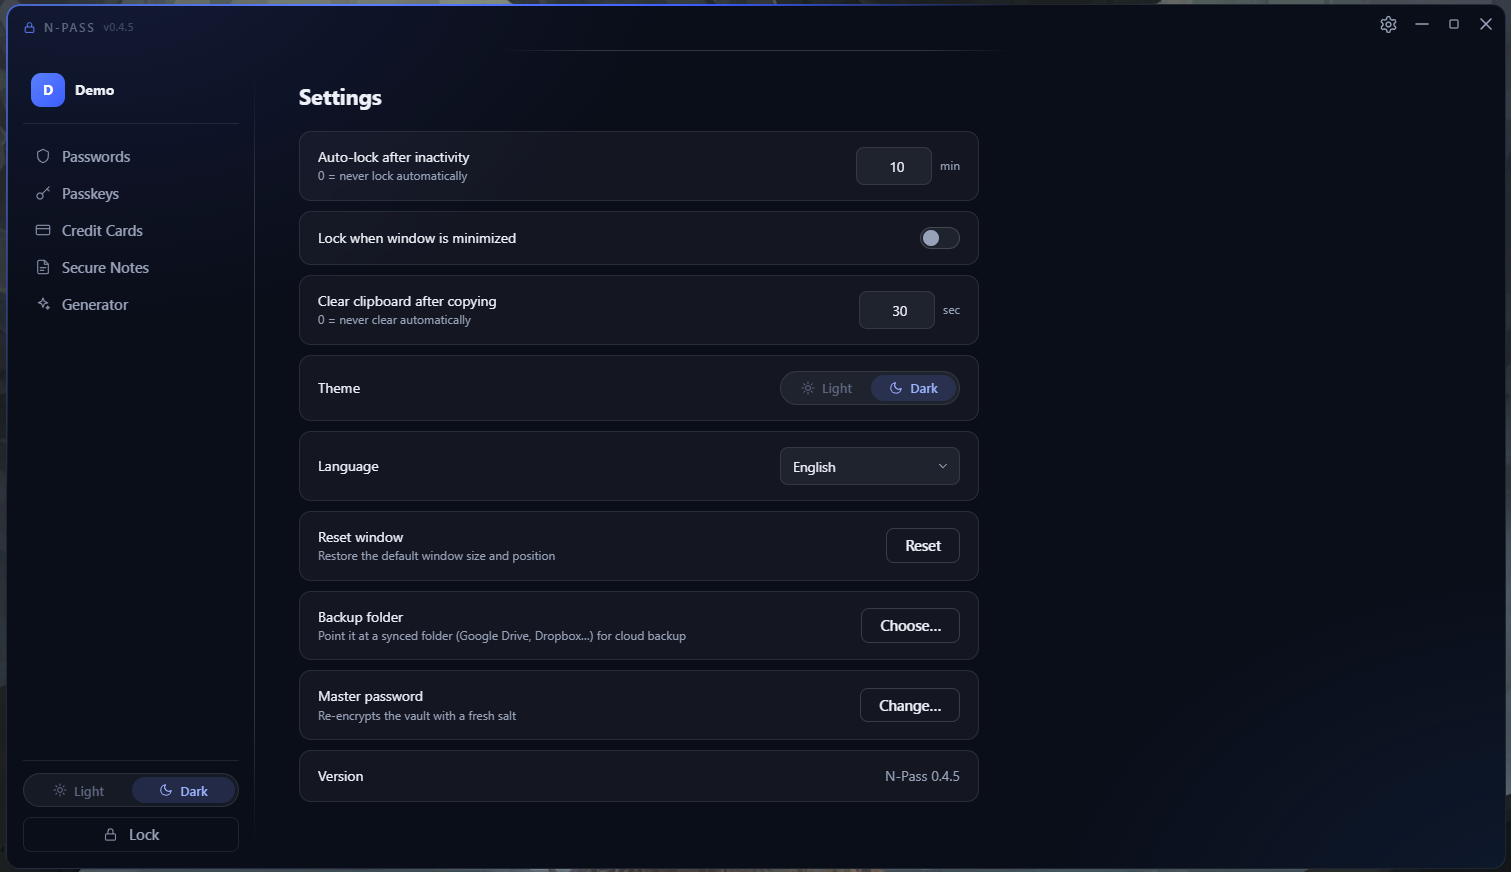
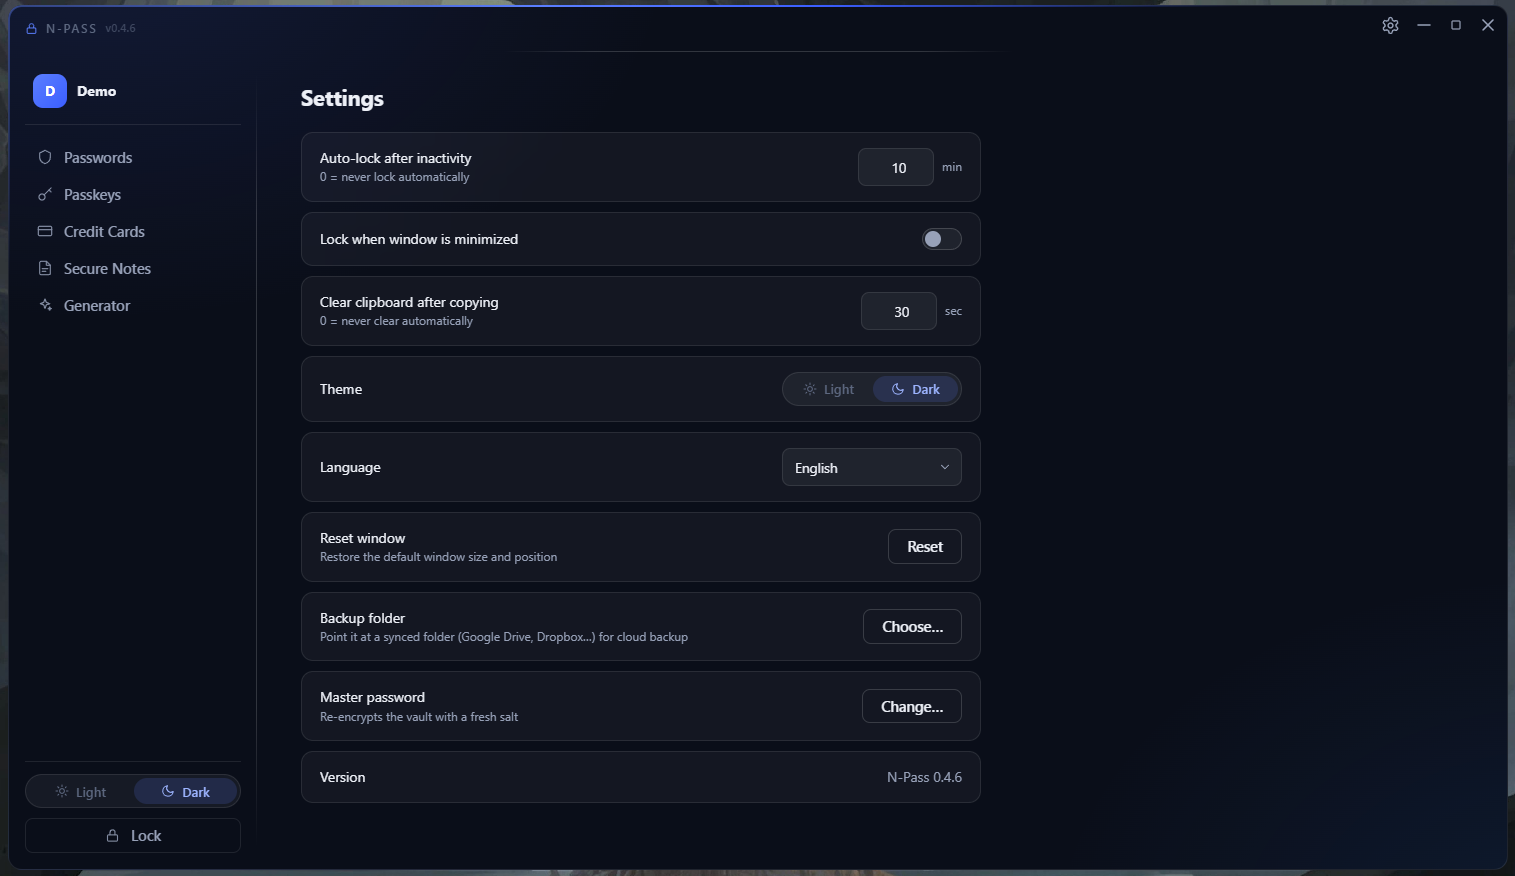
Copying answers back, and the CVV is a field of its own
Copy now leads the buttons in every row, next to the value it copies —
which is where every text cell already puts its own copy button, and the
secret was the one place that broke the rule.

It also replies. A secret goes from the vault to the clipboard inside
Rust, so nothing appears on screen and a click was indistinguishable from
a miss: the most-used action in the app was a leap of faith. The same
green tick the cells flash now confirms it, from one shared button so a
fifth place cannot quietly go mute.

The card CVV is a column rather than a button hidden among the row's
actions, with its own copy and its own eye — reading a CVV aloud is no
reason to put the whole number on screen. Its slot is fixed, because a
three-digit CVV beside a four-digit one would put the buttons of the two
rows in different places, and the value sits at the right edge so the
spare room falls between the label and the value, not between the value
and the buttons. The mask is drawn at the CVV's true length; the list is
told how many characters there are, never which.

Screenshots refreshed.

diff --git a/src/screens/CardsView.tsx b/src/screens/CardsView.tsx
@@ -4,6 +4,7 @@ import { digitsOnly, expiryWholeValue, smartCopy, useClearCellSelection } from "
 import { useDragReorder } from "../lib/useDragReorder";
 import { Select } from "../lib/Select";
 import { Cell } from "../lib/Cell";
+import { CopyButton } from "../lib/CopyButton";
 import { SearchBox, useSearch } from "../lib/useSearch";
 import { t } from "../lib/i18n";
 import { useListScroll } from "../lib/useListScroll";
@@ -14,7 +15,6 @@ const DRAFT_KEY = "cards";
 type Draft = { initial: CardMeta | null; form: CardInput };
 import {
   IconCard,
-  IconCopy,
   IconEye,
   IconEyeOff,
   IconGrip,
@@ -61,6 +61,9 @@ export function CardsView() {
   // Coming back from the form should land where the user was.
   const rememberScroll = useListScroll(editing !== null, entries);
   const [revealed, setRevealed] = useState<Record<string, string>>({});
+  // The CVV reveals on its own: it is the field people read out loud, and
+  // wanting to see it says nothing about wanting to see the number.
+  const [cvvShown, setCvvShown] = useState<Record<string, string>>({});
   const { dragProps, handleProps } = useDragReorder("cards", entries, setEntries);
   useClearCellSelection();
   const { query, setQuery, filtered, searching } = useSearch(entries, (e) => [
@@ -72,6 +75,7 @@ export function CardsView() {
   async function refresh() {
     setEntries(await api.listCards());
     setRevealed({});
+    setCvvShown({});
   }
 
   useEffect(() => {
@@ -84,6 +88,15 @@ export function CardsView() {
     } else {
       const number = await api.revealCardField(id, "number");
       setRevealed((r) => ({ ...r, [id]: formatCardNumber(number) }));
+    }
+  }
+
+  async function toggleRevealCvv(id: string) {
+    if (cvvShown[id] !== undefined) {
+      setCvvShown(({ [id]: _, ...rest }) => rest);
+    } else {
+      const cvv = await api.revealCardField(id, "cvv");
+      setCvvShown((r) => ({ ...r, [id]: cvv }));
     }
   }
 
@@ -148,10 +161,17 @@ export function CardsView() {
               <Cell value={e.cardholder} kind="holder" />
               {/* Cursor-position smart copy: before the slash = MM, after = YY */}
               <Cell value={e.expiry} kind="expiry" wholeValue={expiryWholeValue} />
-              <div className="entry-secret">
-                <code>{revealed[e.id] ?? `•••• ${e.last4}`}</code>
-              </div>
-              <div className="entry-actions">
+              {/* Each secret carries its own copy and eye, the way every text
+                  cell carries its copy button — the CVV is a field of its own
+                  here, not an extra button hidden among the row's actions. */}
+              <div className="secret-group">
+                <div className="entry-secret">
+                  <code>{revealed[e.id] ?? `•••• ${e.last4}`}</code>
+                </div>
+                <CopyButton
+                  title={t("copyNumber")}
+                  onCopy={() => api.copySecret("card_number", e.id)}
+                />
                 <button
                   className="icon"
                   title={revealed[e.id] !== undefined ? t("hideNumber") : t("showNumber")}
@@ -159,20 +179,27 @@ export function CardsView() {
                 >
                   {revealed[e.id] !== undefined ? <IconEyeOff size={15} /> : <IconEye size={15} />}
                 </button>
-                <button
-                  className="icon"
-                  title={t("copyNumber")}
-                  onClick={() => void api.copySecret("card_number", e.id)}
-                >
-                  <IconCopy size={15} />
-                </button>
-                <button
-                  className="icon"
+              </div>
+              <div className="secret-group">
+                <div className="entry-secret narrow">
+                  {/* Three dots on their own say "a secret", not "which
+                      secret" — the column has no heading to explain it. */}
+                  <span className="secret-label">CVV</span>
+                  <code>{cvvShown[e.id] ?? "•".repeat(e.cvv_len || 3)}</code>
+                </div>
+                <CopyButton
                   title={t("copyCvv")}
-                  onClick={() => void api.copySecret("card_cvv", e.id)}
+                  onCopy={() => api.copySecret("card_cvv", e.id)}
+                />
+                <button
+                  className="icon"
+                  title={cvvShown[e.id] !== undefined ? t("hideCvv") : t("showCvv")}
+                  onClick={() => void toggleRevealCvv(e.id)}
                 >
-                  CVV
+                  {cvvShown[e.id] !== undefined ? <IconEyeOff size={15} /> : <IconEye size={15} />}
                 </button>
+              </div>
+              <div className="entry-actions">
                 <button className="icon" title={t("edit")} onClick={() => { rememberScroll(); setEditing(e); }}>
                   <IconPencil size={15} />
                 </button>

diff --git a/src/screens/PasswordsView.tsx b/src/screens/PasswordsView.tsx
@@ -6,7 +6,6 @@ import { useContextMenu } from "../lib/ContextMenu";
 import { StrengthMeter } from "../lib/strength";
 import {
   IconChevronDown,
-  IconCopy,
   IconDots,
   IconCollapseAll,
   IconExternal,
@@ -24,6 +23,7 @@ import {
 } from "../lib/icons";
 import { loadGenOptions, loadNewEntryReveal, saveNewEntryReveal } from "../lib/genPrefs";
 import { Cell } from "../lib/Cell";
+import { CopyButton } from "../lib/CopyButton";
 import { ComboBox } from "../lib/ComboBox";
 import { Select } from "../lib/Select";
 import { shortUrl } from "../lib/url";
@@ -309,15 +309,13 @@ export function PasswordsView({ profile }: { profile: string }) {
           <code>{revealed[entry.id] ?? "••••••••"}</code>
         </div>
         <div className="entry-actions">
-          {/* Kept in place when there is no URL so every row's action
-              block is the same width and the columns stay aligned. */}
-          <button
-            className={`icon ${entry.url ? "" : "invisible"}`}
-            title={t("openUrl")}
-            onClick={() => entry.url && void api.openUrl(entry.url)}
-          >
-            <IconExternal size={15} />
-          </button>
+          {/* Copy leads, next to the value it copies — the same place every
+              cell in the row puts its own copy button. Then the eye, then the
+              link, then the two that act on the record itself. */}
+          <CopyButton
+            title={t("copyPassword")}
+            onCopy={() => api.copySecret("password", entry.id)}
+          />
           <button
             className="icon"
             title={revealed[entry.id] !== undefined ? t("hide") : t("show")}
@@ -325,12 +323,14 @@ export function PasswordsView({ profile }: { profile: string }) {
           >
             {revealed[entry.id] !== undefined ? <IconEyeOff size={15} /> : <IconEye size={15} />}
           </button>
+          {/* Kept in place when there is no URL so every row's action block
+              is the same width and the columns stay aligned. */}
           <button
-            className="icon"
-            title={t("copyPassword")}
-            onClick={() => void api.copySecret("password", entry.id)}
+            className={`icon ${entry.url ? "" : "invisible"}`}
+            title={t("openUrl")}
+            onClick={() => entry.url && void api.openUrl(entry.url)}
           >
-            <IconCopy size={15} />
+            <IconExternal size={15} />
           </button>
           <button
             className="icon"

diff --git a/src/App.css b/src/App.css
@@ -1325,6 +1325,14 @@ button.icon.flash-ok:hover:not(:disabled) {
   color: var(--success);
 }
 
+/* Success flash after copying, for buttons that stand on their own rather
+   than inside a cell. Deliberately not `cell-copy`: that class also hides
+   the button until its cell is hovered, which outside a cell means forever. */
+button.icon.copy-flash.copied {
+  color: var(--success);
+  animation: copy-pop 0.3s cubic-bezier(0.2, 0.7, 0.3, 1.4);
+}
+
 /* Success flash after copying. */
 button.cell-copy.copied {
   opacity: 1;
@@ -1384,6 +1392,48 @@ button.cell-copy svg {
 .entry-secret {
   flex: 0 0 175px;
   min-width: 0;
+}
+
+/* Fixed, like the number's slot, because rows have to agree: a three-digit
+   CVV next to a four-digit one would otherwise put the buttons of the two
+   rows in different places. The width fits the longest CVV the form accepts.
+   The value sits at the right edge, hard against its buttons, so the spare
+   room falls between the label and the value instead of between the value
+   and the buttons. */
+.entry-secret.narrow {
+  flex: 0 0 72px;
+  display: flex;
+  align-items: center;
+  justify-content: space-between;
+  gap: 8px;
+}
+
+/* Names the field without competing with its value. */
+.secret-label {
+  font-size: 9.5px;
+  font-weight: 700;
+  letter-spacing: 0.08em;
+  color: var(--text-faint);
+  vertical-align: 1px;
+}
+
+/* A secret and the buttons acting on it move as one, so copy sits beside
+   the value exactly as it does in a text cell. The value stays legible;
+   only the buttons fade until the row is under the cursor. */
+.secret-group {
+  display: flex;
+  align-items: center;
+  gap: 1px;
+  flex: 0 0 auto;
+}
+
+.secret-group .icon {
+  opacity: 0.35;
+  transition: opacity 0.15s;
+}
+
+.entry:hover .secret-group .icon {
+  opacity: 1;
 }
 
 .entry-secret code {

diff --git a/src/lib/CopyButton.tsx b/src/lib/CopyButton.tsx
@@ -1,0 +1,50 @@
+// A copy button that answers back.
+//
+// Copying a secret goes straight from the vault to the clipboard inside
+// Rust — nothing appears on screen, nothing is selected, no value is shown.
+// Without a reply the click is indistinguishable from a miss, and the most
+// common action in the whole app becomes a leap of faith. The same check
+// mark the text cells flash is used here, so one gesture reads the same way
+// everywhere.
+
+import { useEffect, useRef, useState } from "react";
+
+import { IconCheck, IconCopy } from "./icons";
+
+/** How long the check stays up. Long enough to be seen, short enough that a
+    second copy of the same thing still reads as a second copy. */
+const FLASH_MS = 1100;
+
+interface Props {
+  title: string;
+  size?: number;
+  /** Runs the copy. Its promise is awaited so the check only appears once
+      the value is actually on the clipboard. */
+  onCopy: () => Promise<unknown>;
+  className?: string;
+}
+
+export function CopyButton({ title, size = 15, onCopy, className = "" }: Props) {
+  const [copied, setCopied] = useState(false);
+  const timer = useRef<number | undefined>(undefined);
+
+  // A row can disappear mid-flash (delete, lock, a merge reloading the list).
+  useEffect(() => () => window.clearTimeout(timer.current), []);
+
+  async function handleClick() {
+    await onCopy();
+    setCopied(true);
+    window.clearTimeout(timer.current);
+    timer.current = window.setTimeout(() => setCopied(false), FLASH_MS);
+  }
+
+  return (
+    <button
+      className={`icon copy-flash ${copied ? "copied" : ""} ${className}`}
+      title={title}
+      onClick={() => void handleClick()}
+    >
+      {copied ? <IconCheck size={size - 2} /> : <IconCopy size={size} />}
+    </button>
+  );
+}

diff --git a/src/screens/KeysView.tsx b/src/screens/KeysView.tsx
@@ -3,6 +3,7 @@ import { api, KeyInput, KeyMeta } from "../api";
 import { smartCopy, useClearCellSelection } from "../lib/smartCopy";
 import { useDragReorder } from "../lib/useDragReorder";
 import { Cell } from "../lib/Cell";
+import { CopyButton } from "../lib/CopyButton";
 import { SearchBox, useSearch } from "../lib/useSearch";
 import { t } from "../lib/i18n";
 import { useListScroll } from "../lib/useListScroll";
@@ -12,7 +13,6 @@ import { clearDraft, getDraft, setDraft } from "../lib/drafts";
 const DRAFT_KEY = "keys";
 type Draft = { initial: KeyMeta | null; form: KeyInput };
 import {
-  IconCopy,
   IconEye,
   IconEyeOff,
   IconGrip,
@@ -121,19 +121,13 @@ export function KeysView() {
                 <code>{revealed[e.id] ?? "••••••••"}</code>
               </div>
               <div className="entry-actions">
+                <CopyButton title={t("copyKey")} onCopy={() => api.copySecret("key", e.id)} />
                 <button
                   className="icon"
                   title={revealed[e.id] !== undefined ? t("hide") : t("show")}
                   onClick={() => void toggleReveal(e.id)}
                 >
                   {revealed[e.id] !== undefined ? <IconEyeOff size={15} /> : <IconEye size={15} />}
-                </button>
-                <button
-                  className="icon"
-                  title={t("copyKey")}
-                  onClick={() => void api.copySecret("key", e.id)}
-                >
-                  <IconCopy size={15} />
                 </button>
                 <button className="icon" title={t("edit")} onClick={() => { rememberScroll(); setEditing(e); }}>
                   <IconPencil size={15} />

diff --git a/src/lib/i18n.ts b/src/lib/i18n.ts
@@ -114,6 +114,8 @@ const DICT = {
   copyNumber: ["Copy number (no dashes)", "Копировать номер (без дефисов)", "Копіювати номер (без дефісів)"],
   copyCvv: ["Copy CVV", "Копировать CVV", "Копіювати CVV"],
   copyKey: ["Copy key", "Копировать ключ", "Копіювати ключ"],
+  showCvv: ["Show CVV", "Показать CVV", "Показати CVV"],
+  hideCvv: ["Hide CVV", "Скрыть CVV", "Приховати CVV"],
   showNumber: ["Show number", "Показать номер", "Показати номер"],
   hideNumber: ["Hide number", "Скрыть номер", "Приховати номер"],
   emptyPasswords: [

diff --git a/src/api.ts b/src/api.ts
@@ -29,6 +29,8 @@ export interface CardMeta {
   cardholder: string;
   last4: string;
   expiry: string;
+  /** Length of the CVV, so it can be masked at its real width. */
+  cvv_len: number;
   notes: string;
 }
 

diff --git a/src-tauri/src/commands/entries.rs b/src-tauri/src/commands/entries.rs
@@ -202,6 +202,9 @@ pub struct CardMeta {
     pub cardholder: String,
     pub last4: String,
     pub expiry: String,
+    /// How many characters the CVV has — enough to mask it at its true
+    /// width, so revealing it moves nothing. Never the CVV itself.
+    pub cvv_len: usize,
     pub notes: String,
 }
 
@@ -215,6 +218,7 @@ impl From<&CardEntry> for CardMeta {
             cardholder: e.cardholder.clone(),
             last4: e.number[digits.saturating_sub(4)..].to_string(),
             expiry: e.expiry.clone(),
+            cvv_len: e.cvv.chars().count(),
             notes: e.notes.clone(),
         }
     }

diff --git a/README.ru.md b/README.ru.md
@@ -99,11 +99,17 @@ N-Pass не вводит пароли на сайтах за вас (ни рас
 сценарий — копирование, и занимает он секунды три:
 
 1. Найдите запись — начните печатать в поле поиска или нажмите **Ctrl+F**.
-2. Нажмите иконку **копирования** (⧉) справа в строке. На экране ничего
-   не появится: пароль уходит сразу в буфер обмена.
+2. Нажмите иконку **копирования** (⧉) — она первая из кнопок справа,
+   сразу за точками пароля. На экране пароль не появится: он уходит прямо
+   в буфер обмена. Кнопка отвечает зелёной галочкой, чтобы было видно,
+   что нажатие сработало.
 3. Переключитесь на сайт и вставьте его через **Ctrl+V**.
 4. И забудьте — через 30 секунд буфер очистится сам, пароль не останется
    там до конца дня.
+
+В списке карт номер и CVV — отдельные колонки, у каждой своя кнопка
+копирования и свой глаз: чтобы продиктовать CVV, незачем показывать на
+экране весь номер карты.
 
 Нужно пароль именно **увидеть** (например, чтобы набрать его на
 телефоне)? Нажмите иконку **глаза** — значение покажется прямо в строке

diff --git a/README.md b/README.md
@@ -97,11 +97,17 @@ extension, no autofill — see [Non-goals](#non-goals)). The everyday loop
 is copy-and-paste, and it takes about three seconds:
 
 1. Find the entry — start typing in the search box or press **Ctrl+F**.
-2. Click the **copy** icon (⧉) on the right side of the row. Nothing is
-   shown on screen; the password goes straight to the clipboard.
+2. Click the **copy** icon (⧉) — the first of the buttons on the right of
+   the row, right next to the dots. The password is never shown on screen;
+   it goes straight to the clipboard. The button answers with a green tick
+   so you know it took.
 3. Switch to the website and paste with **Ctrl+V**.
 4. Forget about it — the clipboard clears itself 30 seconds later, so the
    password does not linger there for the rest of the day.
+
+In the card list the number and the CVV are separate columns, each with
+its own copy button and its own eye — reading a CVV out loud is no reason
+to put the whole card number on screen.
 
 Need to *see* a password instead of copying it (to type it on a phone,
 for example)? Click the **eye** icon — the value appears in the row and
